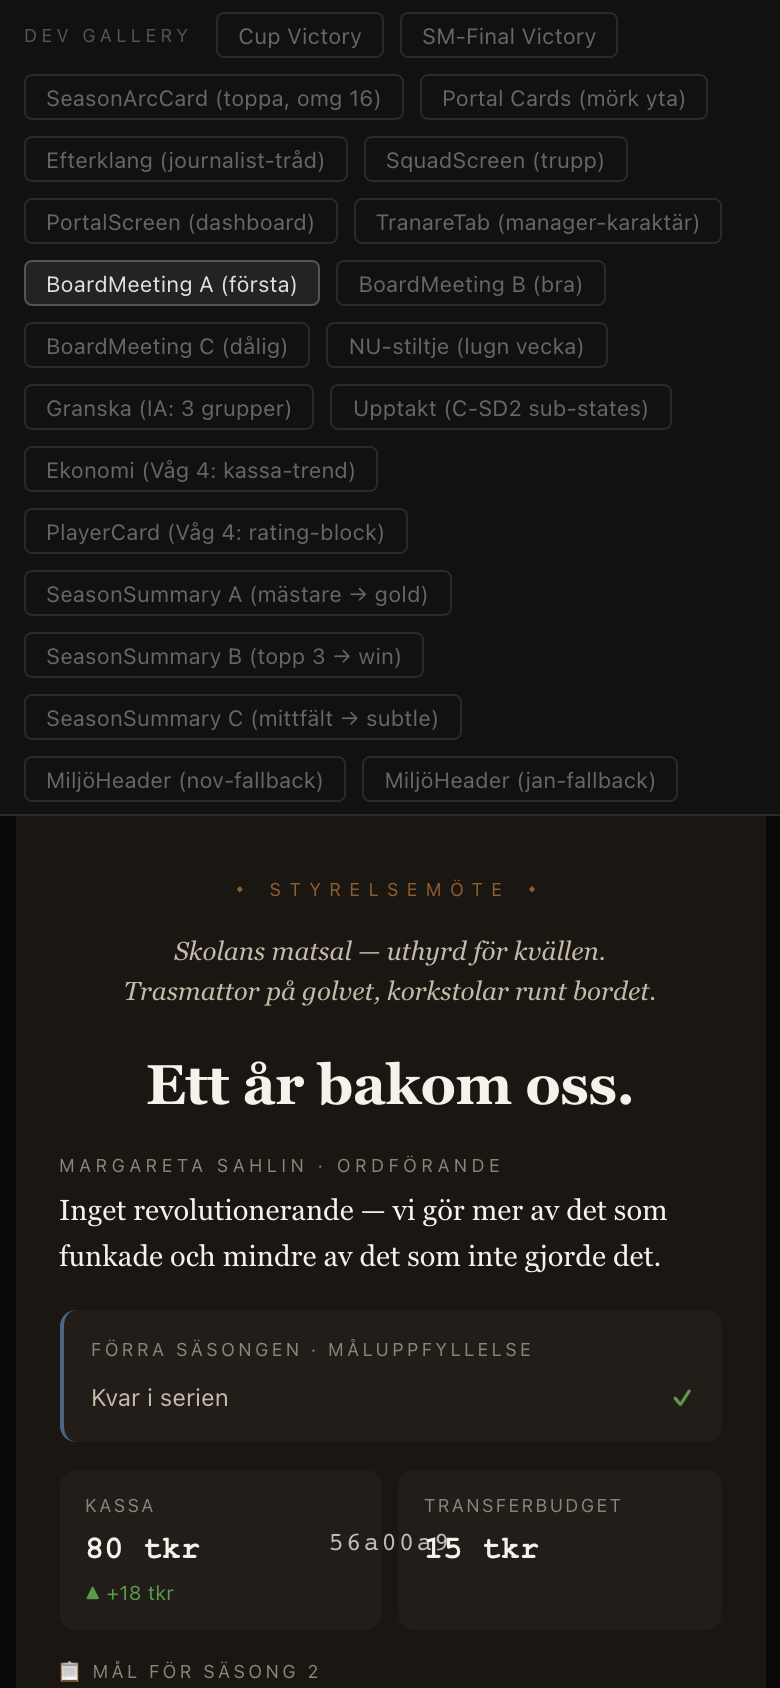
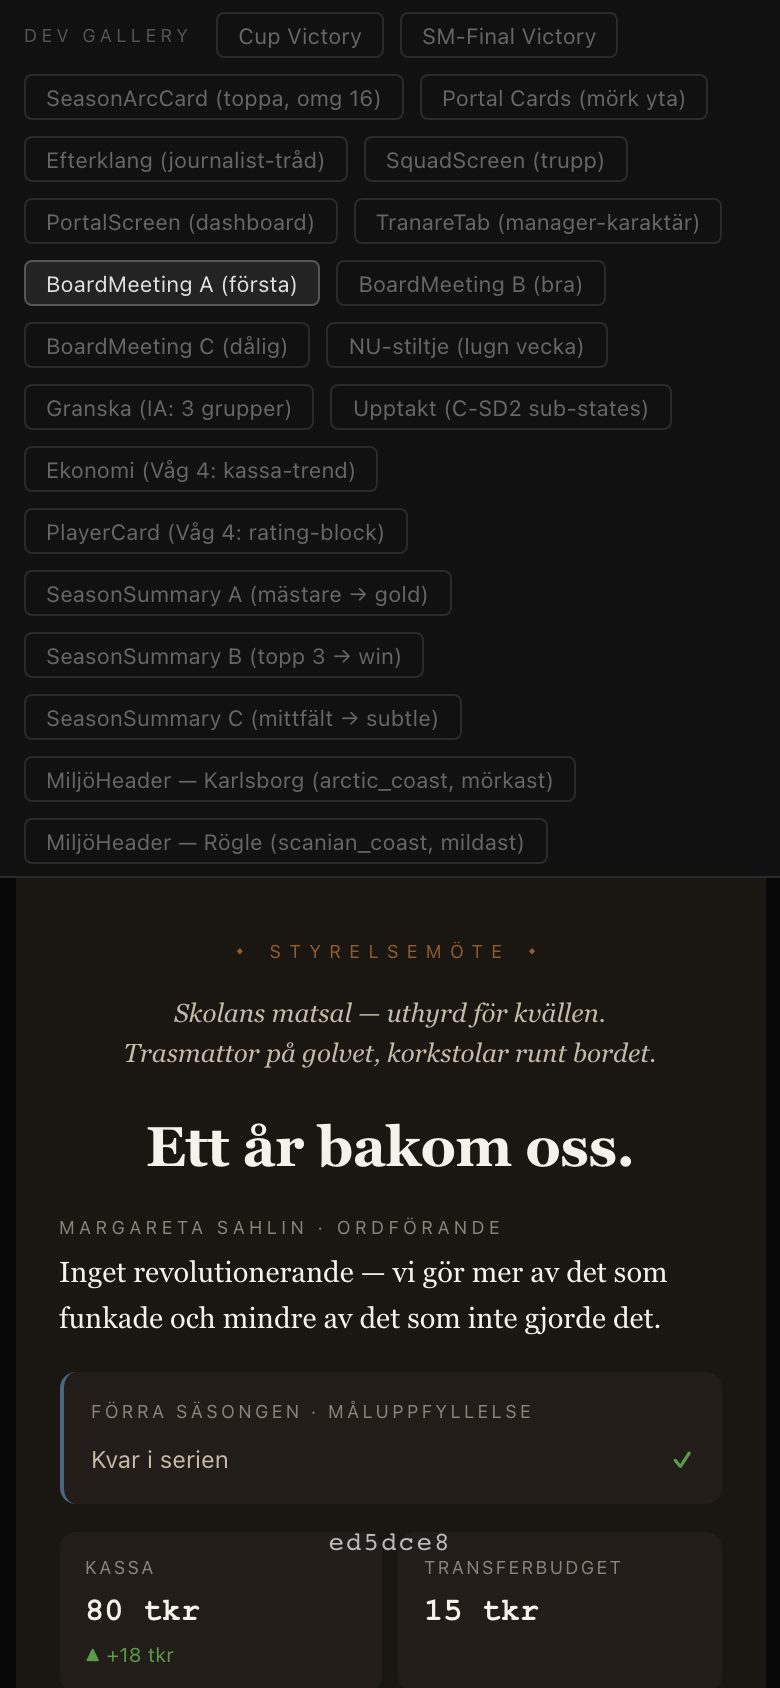
feat: MiljöHeader per-klubb-tint (klimateArchetype) — v1, ovanpå säsongstinten
Spår 1-korrigering: tinten nycklas nu på clubExtendedInfo.klimateArchetype (svensk
stavning, med K) per brief-tabellen, komponerad ovanpå säsongstinten på samma kallt↔ljust-
axel. Härlett ur befintliga cold-tokens (token-rent, ingen ny hex): arctic_coast 0.45
--cold (mörkast/blåast) … scanian_coast 0.13 --cold-light (mildast/ljusast). Plus
ClubBadge-vattenstämpel + klubbnamn-chrome. Per-klubb-tint är v1; bara per-klubb-MÅLNINGAR
är senare lyx.

Bilaga regenererad: de två MiljöHeader-scenerna är nu Karlsborg (arctic) vs Rögle (scanian),
samma djupvinter-datum → skillnaden är ren per-klubb-tint. screenshots/audit/ uppdaterad
(21 ytor); INDEX.md är bilagan för engångs-godkännande.

Bygg ren. lint:design grönt.

diff --git a/src/presentation/components/environment/MiljoHeader.tsx b/src/presentation/components/environment/MiljoHeader.tsx
@@ -1,41 +1,68 @@
 import { useState } from 'react'
 import { getSeasonalTone } from '../../../domain/services/portal/seasonalTone'
+import { CLUB_EXTENDED_INFO } from '../../../domain/data/clubExtendedInfo'
+import { ClubBadge } from '../ClubBadge'
 
 /**
- * MiljoHeader — "den närvarande bruksorten". Konstant TEXTUR (inte händelse): ett
- * säsongstonat header-band överst på vardagsytor, så en mittenmatch i mars också ser
- * ut som en plats. Tävlar aldrig om fokus (BESTALLNINGSBRIEF-MILJOHEADER 2026-06-07).
+ * MiljoHeader — "den närvarande bruksorten" (BESTALLNINGSBRIEF-MILJOHEADER, bygg-spec).
+ * Konstant TEXTUR (inte händelse): säsongstonat header-band överst på vardagsytor.
+ * Recederar alltid — plats, inte scen. Lånar aldrig ceremonins vokabulär (inget guld
+ * utöver fönsterljus, ingen hjälte-typ).
  *
- * EN bild (public/assets/illustrations/bruksort-header.jpg) tintas i kod per säsong via
- * getSeasonalTone. Bilden finns inte än → fallback: ren säsongstonad gradient (INGEN proxy
- * — mockens SVG:er hör inte hemma i spelet) + dev-only "⌧ saknas"-stämpel. Per-klubb-
- * klimat-tint (climateArchetype) är en senare variant (brief §Öppna); v1 = säsong.
+ * Tint på EN axel (kallt↔ljust), tre lager:
+ *  - säsong (bas): getSeasonalTone(date) — okt→mars-glidning.
+ *  - klimateArchetype (per-klubb karaktär ur clubExtendedInfo): arctic_coast mörkast/blåast,
+ *    scanian_coast mildast/ljusast, osv. Härlett ur befintliga cold-tokens (token-rent).
+ *  - väder (snabb modulation): partikel/fönsterljus — hook finns, byggs med bilden.
  *
- * Sökväg: public/ (CODE-LEVERANS §1 — briefens "src/assets/" är den äldre, felaktiga).
+ * Bilden (public/assets/illustrations/bruksort-header.jpg, §1: public/ ej src/) finns inte
+ * än → fallback: motivlös säsongstonad gradient + ClubBadge-vattenstämpel + dev-only stämpel
+ * "⌧ bruksort-header saknas". Aldrig SVG-proxy.
  */
 const IMG_SRC = '/assets/illustrations/bruksort-header.jpg'
-const PAPER = 'var(--bg)' // ljust pappers-kropp som bandet fadar ned mot (= vardagsytans bg)
+const PAPER = 'var(--bg)' // ljust pappers-kropp som bandet fadar ned mot
+
+// klimateArchetype → tint-karaktär ur befintliga cold-tokens (token-rent; ingen ny hex).
+// strength = overlay-opacitet: högre = mörkare/kallare (polärt), lägre = mildare/ljusare.
+const ARCHETYPE_TINT: Record<string, { token: string; strength: number }> = {
+  arctic_coast:        { token: '--cold', strength: 0.45 }, // Karlsborg — mörkast, blåast
+  sm_highland_extreme: { token: '--cold', strength: 0.34 }, // Målilla — extrem köld, klar
+  valley_coldpit:      { token: '--cold', strength: 0.38 }, // Lesjöfors — djup köld (köldhål)
+  valley_inland:       { token: '--cold', strength: 0.30 }, // Gagnef — inlandsköld
+  vanern_effect:       { token: '--cold-light', strength: 0.28 }, // Slottsbron — dimma/storm
+  gulf_coast:          { token: '--cold-light', strength: 0.22 }, // Skutskär — kustdis
+  bruk_river_island:   { token: '--cold-light', strength: 0.20 }, // Söderfors — älvdis
+  bruk_lakeside:       { token: '--cold-light', strength: 0.22 }, // standard-bruk — sjödimma
+  scanian_coast:       { token: '--cold-light', strength: 0.13 }, // Rögle — mildast, ljusast
+}
+const DEFAULT_TINT = { token: '--cold-light', strength: 0.22 }
 
 interface Props {
   /** game.currentDate — driver säsongstinten */
   date: string
+  /** managed club — klimateArchetype-tint + vattenstämpel + namn-chrome */
+  club?: { id: string; name: string }
   /** portal = full höjd 168px, inner (trupp/granska) = komprimerad 120px */
   mode?: 'portal' | 'inner'
-  /** chrome över bandet (klubbnamn/säsong) */
+  /** chrome över bandet (utöver klubbnamn) */
   children?: React.ReactNode
 }
 
-export function MiljoHeader({ date, mode = 'portal', children }: Props) {
+export function MiljoHeader({ date, club, mode = 'portal', children }: Props) {
   const [hasImage, setHasImage] = useState(true)
   const tone = getSeasonalTone(date)
   const height = mode === 'portal' ? 168 : 120
+
+  const archetype = club ? CLUB_EXTENDED_INFO[club.id]?.klimateArchetype : undefined
+  const tint = (archetype && ARCHETYPE_TINT[archetype]) || DEFAULT_TINT
+  const archetypeOverlay = `color-mix(in srgb, var(${tint.token}) ${Math.round(tint.strength * 100)}%, transparent)`
 
   // Säsongstonad himmel → fade ned mot ljust papper (mörk-ljus-rytm: bandet är "vyn ut").
   const skyToPaper = `linear-gradient(180deg, ${tone.bgPrimary} 0%, ${tone.bgSurface} 42%, ${PAPER} 100%)`
 
   return (
     <div style={{ position: 'relative', height, overflow: 'hidden', background: skyToPaper }}>
-      {/* Bilden (tål höjd-beskärning via object-position); döljs tills den droppas i public/ */}
+      {/* Bilden (tål höjd-beskärning via object-position — behåll nedre 2/3); döljs tills den droppas */}
       <img
         src={IMG_SRC}
         alt=""
@@ -47,16 +74,39 @@ export function MiljoHeader({ date, mode = 'portal', children }: Props) {
           display: hasImage ? 'block' : 'none',
         }}
       />
+
+      {/* klimateArchetype-tint (per-klubb karaktär) — övre 2/3, grumlar inte papper-faden */}
+      <div style={{ position: 'absolute', left: 0, right: 0, top: 0, height: '66%', background: archetypeOverlay, pointerEvents: 'none' }} />
+
       {/* Säsongstint över bilden + fade till papper nedtill (gäller även med bild) */}
       {hasImage && <div style={{ position: 'absolute', inset: 0, background: skyToPaper, mixBlendMode: 'multiply', opacity: 0.55, pointerEvents: 'none' }} />}
       <div style={{ position: 'absolute', left: 0, right: 0, bottom: 0, height: '38%', background: `linear-gradient(180deg, transparent 0%, ${PAPER} 100%)`, pointerEvents: 'none' }} />
 
+      {/* ClubBadge-vattenstämpel (billigt per-klubb-id på tomt tillstånd) */}
+      {club && (
+        <div style={{ position: 'absolute', right: 14, top: mode === 'portal' ? 18 : 12, opacity: hasImage ? 0.5 : 0.16, pointerEvents: 'none' }}>
+          <ClubBadge clubId={club.id} name={club.name} size={mode === 'portal' ? 56 : 40} />
+        </div>
+      )}
+
+      {/* Klubbnamn i chrome (överkant) */}
+      {club && (
+        <div style={{
+          position: 'absolute', left: 16, top: mode === 'portal' ? 20 : 13,
+          fontFamily: 'var(--font-display)', fontSize: mode === 'portal' ? 15 : 13,
+          fontWeight: 700, color: 'var(--text-light)', letterSpacing: '0.3px',
+          textShadow: '0 1px 3px rgba(0,0,0,0.4)', pointerEvents: 'none',
+        }}>
+          {club.name}
+        </div>
+      )}
+
       {/* Dev-only: gör det uppenbart att basbilden saknas (aldrig i prod) */}
       {!hasImage && import.meta.env.DEV && (
         <div style={{
-          position: 'absolute', top: 6, left: 0, right: 0, textAlign: 'center',
+          position: 'absolute', bottom: '42%', left: 0, right: 0, textAlign: 'center',
           fontFamily: 'var(--font-mono)', fontSize: 9, letterSpacing: '1px',
-          color: 'var(--text-light-secondary)', opacity: 0.6, pointerEvents: 'none',
+          color: 'var(--text-light-secondary)', opacity: 0.55, pointerEvents: 'none',
         }}>
           ⌧ bruksort-header saknas
         </div>

diff --git a/src/presentation/screens/dev/DevScenesScreen.tsx b/src/presentation/screens/dev/DevScenesScreen.tsx
@@ -29,7 +29,7 @@ import { Sparkline as SparklineComp } from '../../components/primitives/Sparklin
 import { MiljoHeader } from '../../components/environment/MiljoHeader'
 import { useGameStore } from '../../store/gameStore'
 
-type SceneId = 'cup-victory' | 'sm-victory' | 'season-arc' | 'portal-cards' | 'efterklang' | 'squad' | 'portal' | 'tranare' | 'board-a' | 'board-b' | 'board-c' | 'stillness' | 'granska' | 'upptakt' | 'ekonomi' | 'playercard' | 'season-a' | 'season-b' | 'season-c' | 'miljoheader-nov' | 'miljoheader-jan'
+type SceneId = 'cup-victory' | 'sm-victory' | 'season-arc' | 'portal-cards' | 'efterklang' | 'squad' | 'portal' | 'tranare' | 'board-a' | 'board-b' | 'board-c' | 'stillness' | 'granska' | 'upptakt' | 'ekonomi' | 'playercard' | 'season-a' | 'season-b' | 'season-c' | 'miljoheader-karlsborg' | 'miljoheader-rogle'
 
 const SCENES: { id: SceneId; label: string }[] = [
   { id: 'cup-victory',  label: 'Cup Victory' },
@@ -51,8 +51,8 @@ const SCENES: { id: SceneId; label: string }[] = [
   { id: 'season-a',     label: 'SeasonSummary A (mästare → gold)' },
   { id: 'season-b',     label: 'SeasonSummary B (topp 3 → win)' },
   { id: 'season-c',     label: 'SeasonSummary C (mittfält → subtle)' },
-  { id: 'miljoheader-nov', label: 'MiljöHeader (nov-fallback)' },
-  { id: 'miljoheader-jan', label: 'MiljöHeader (jan-fallback)' },
+  { id: 'miljoheader-karlsborg', label: 'MiljöHeader — Karlsborg (arctic_coast, mörkast)' },
+  { id: 'miljoheader-rogle', label: 'MiljöHeader — Rögle (scanian_coast, mildast)' },
 ]
 
 // ── Fingered data ────────────────────────────────────────────────────────────
@@ -530,17 +530,23 @@ export function DevScenesScreen() {
           </div>
         )}
 
-        {(scene === 'miljoheader-nov' || scene === 'miljoheader-jan') && (
-          <div style={{ background: 'var(--bg)', minHeight: 'calc(100vh - 40px)' }}>
-            {/* Fallback-rendering (bruksort-header.jpg finns inte än) — säsongstonad gradient
-                + dev-stämpel. Nov vs jan visar säsongstinten. */}
-            <MiljoHeader date={scene === 'miljoheader-nov' ? '2026-11-15' : '2027-01-20'} mode="portal" />
-            <div style={{ padding: '14px 16px', fontSize: 12, color: 'var(--text-secondary)' }}>
-              ⬩ Vardagskropp under bandet (kort i ljust papper). Bandet är "vyn ut".
+        {(scene === 'miljoheader-karlsborg' || scene === 'miljoheader-rogle') && (() => {
+          // Fallback-rendering (bruksort-header.jpg finns inte än): säsongstonad gradient +
+          // klimateArchetype-tint + ClubBadge-vattenstämpel + dev-stämpel. Samma datum (djup
+          // vinter) för båda → skillnaden är ren per-klubb-tint (arctic mörk/blå vs scanian mild/ljus).
+          const club = scene === 'miljoheader-karlsborg'
+            ? { id: 'club_karlsborg', name: 'Karlsborg' }
+            : { id: 'club_rogle', name: 'Rögle' }
+          return (
+            <div style={{ background: 'var(--bg)', minHeight: 'calc(100vh - 40px)' }}>
+              <MiljoHeader date="2027-01-20" club={club} mode="portal" />
+              <div style={{ padding: '14px 16px', fontSize: 12, color: 'var(--text-secondary)' }}>
+                ⬩ Vardagskropp under bandet (kort i ljust papper). Bandet är "vyn ut".
+              </div>
+              <MiljoHeader date="2027-01-20" club={club} mode="inner" />
             </div>
-            <MiljoHeader date={scene === 'miljoheader-nov' ? '2026-11-15' : '2027-01-20'} mode="inner" />
-          </div>
-        )}
+          )
+        })()}
 
         {scene === 'squad' && (
           <div style={{ height: '812px', overflow: 'hidden', position: 'relative' }}>

diff --git a/screenshots/audit/INDEX.md b/screenshots/audit/INDEX.md
@@ -122,14 +122,14 @@ Regenerera: starta servern + `node scripts/capture-scenes.mjs`.
 
 ![season-c](./season-c.png)
 
-### MiljöHeader (nov-fallback)
+### MiljöHeader — Karlsborg (arctic_coast, mörkast/blåast)
 
-`miljoheader-nov`
+`miljoheader-karlsborg`
 
-![miljoheader-nov](./miljoheader-nov.png)
+![miljoheader-karlsborg](./miljoheader-karlsborg.png)
 
-### MiljöHeader (jan-fallback)
+### MiljöHeader — Rögle (scanian_coast, mildast/ljusast)
 
-`miljoheader-jan`
+`miljoheader-rogle`
 
-![miljoheader-jan](./miljoheader-jan.png)
+![miljoheader-rogle](./miljoheader-rogle.png)
